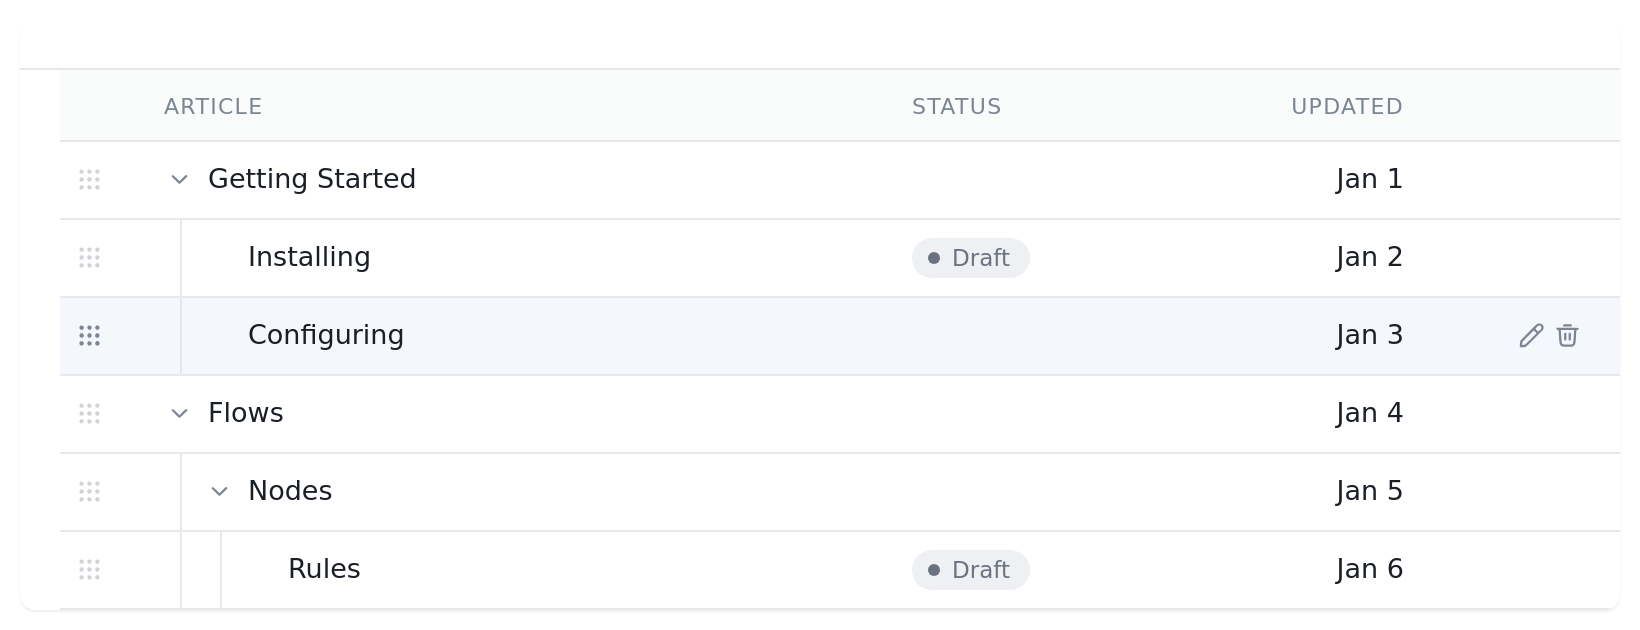
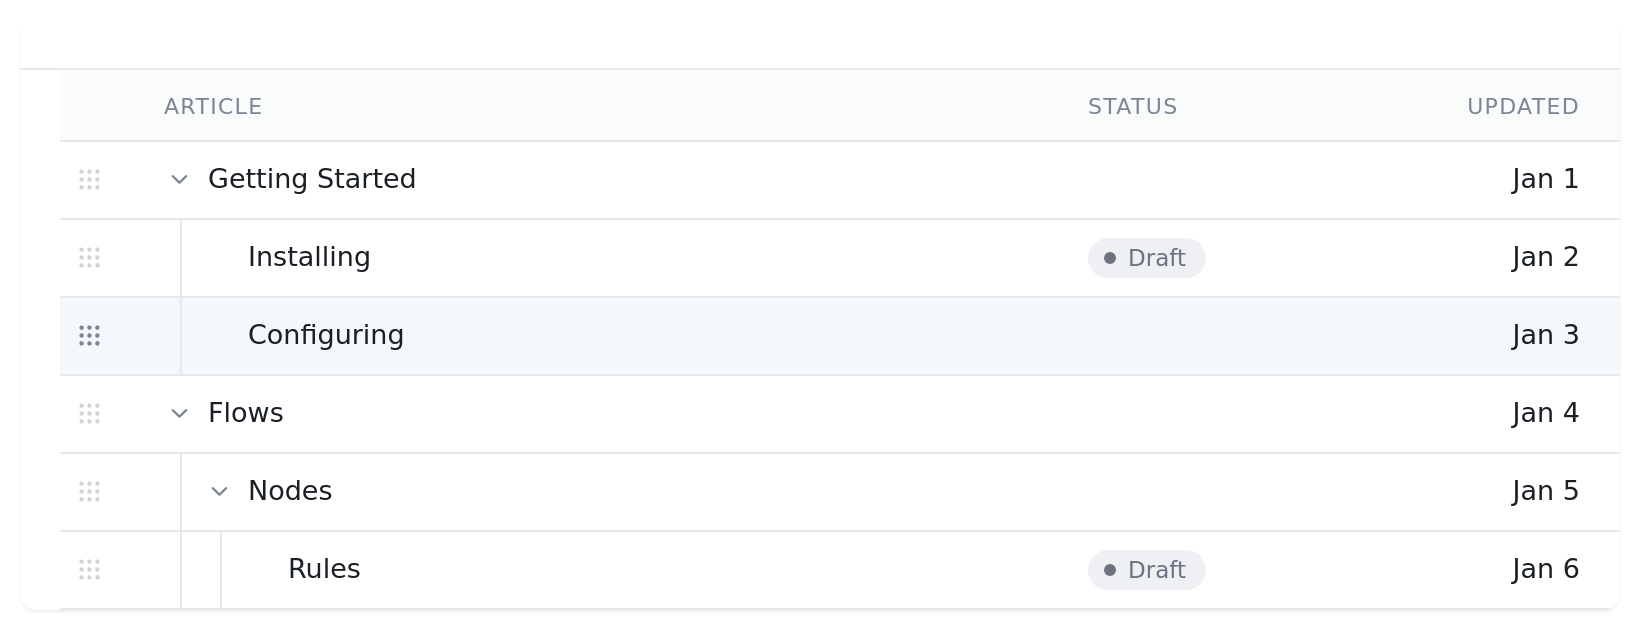
Open articles from the list without a page to link a row to
An article is read and written in a dialog over the list now, and the
read page it used to link to is gone - so getRowHref has nothing to
answer with and a ctrl-click on a row was landing on a 404.

The rows still lead somewhere, so they keep the clickable affordance
through an isRowClickable hook rather than inferring it from an href
that no longer exists. The edit and delete hover buttons go with it:
nothing passes editable or deletable any more, since the dialog carries
both actions itself.

diff --git a/src/list/ArticleList.ts b/src/list/ArticleList.ts
@@ -1,7 +1,7 @@
 import { css, html, PropertyValues, TemplateResult } from 'lit';
 import { property, state } from 'lit/decorators.js';
 import { Icon } from '../Icons';
-import { Article, CustomEventType } from '../interfaces';
+import { Article } from '../interfaces';
 import { postJSON } from '../utils';
 import { ContentList, ContentListColumn } from './ContentList';
 
@@ -255,29 +255,6 @@ export class ArticleList extends ContentList<ArticleRow> {
         opacity: 0.4;
       }
 
-      .row-actions {
-        display: flex;
-        gap: 4px;
-        justify-content: flex-end;
-        opacity: 0;
-      }
-
-      tr.row:hover .row-actions {
-        opacity: 1;
-      }
-
-      .row-action {
-        --icon-color: var(--text-3);
-      }
-
-      .row-action:hover {
-        --icon-color: var(--text-1);
-      }
-
-      .row-action.destructive:hover {
-        --icon-color: var(--danger);
-      }
-
       /* where the dragged row would land, indented to the level it
          would land at */
       .drop-marker {
@@ -301,12 +278,6 @@ export class ArticleList extends ContentList<ArticleRow> {
    * reject. */
   @property({ type: Number, attribute: 'max-depth' })
   maxDepth = 3;
-
-  @property({ type: Boolean })
-  editable = false;
-
-  @property({ type: Boolean })
-  deletable = false;
 
   /** The whole tree, including the rows a collapsed branch hides. */
   @state()
@@ -340,12 +311,13 @@ export class ArticleList extends ContentList<ArticleRow> {
     // the tree is the order, so there's nothing to sort or search by
     this.searchable = false;
     this.selectable = false;
+    this.columns = this.buildColumns();
   }
 
   private buildColumns(): ContentListColumn[] {
     const columns: ContentListColumn[] = [];
 
-    // the drag and action columns are affordances rather than data, so they head up blank
+    // the drag column is an affordance rather than data, so it heads up blank
     if (this.sortEndpoint) {
       columns.push({ key: 'drag', label: '', width: '28px' });
     }
@@ -356,25 +328,12 @@ export class ArticleList extends ContentList<ArticleRow> {
       { key: 'modified_on', label: 'Updated', width: '130px', align: 'right' }
     );
 
-    if (this.editable || this.deletable) {
-      columns.push({
-        key: 'actions',
-        label: '',
-        width: '72px',
-        align: 'right'
-      });
-    }
-
     return columns;
   }
 
   protected willUpdate(changes: PropertyValues): void {
     // rebuilt before the base class runs so its width bookkeeping sees the columns this render will use
-    if (
-      changes.has('sortEndpoint') ||
-      changes.has('editable') ||
-      changes.has('deletable')
-    ) {
+    if (changes.has('sortEndpoint')) {
       this.columns = this.buildColumns();
     }
     super.willUpdate(changes);
@@ -397,8 +356,14 @@ export class ArticleList extends ContentList<ArticleRow> {
     return visibleRows(this.tree, this.collapsed);
   }
 
-  protected getRowHref(item: ArticleRow): string | null {
-    return item?.uuid ? `/article/read/${item.uuid}/` : null;
+  /** An article has no page of its own to link to - it's opened by the
+   * host from the row-click event, in a dialog over the list. */
+  protected getRowHref(): string | null {
+    return null;
+  }
+
+  protected isRowClickable(): boolean {
+    return true;
   }
 
   private toggleCollapsed(row: ArticleRow, event: Event): void {
@@ -414,20 +379,6 @@ export class ArticleList extends ContentList<ArticleRow> {
 
     this.collapsed = collapsed;
     this.items = visibleRows(this.tree, collapsed);
-  }
-
-  private handleEditClicked(row: ArticleRow, event: MouseEvent): void {
-    event.stopPropagation();
-    const href = `/article/update/${row.uuid}/`;
-    if (!this.isSafeHref(href)) {
-      return;
-    }
-    this.fireCustomEvent(CustomEventType.Redirected, { url: href });
-  }
-
-  private handleDeleteClicked(row: ArticleRow, event: MouseEvent): void {
-    event.stopPropagation();
-    this.fireCustomEvent(CustomEventType.ArticleDelete, { item: row });
   }
 
   // ==========================================================
@@ -642,31 +593,6 @@ export class ArticleList extends ContentList<ArticleRow> {
               display="timedate"
             ></temba-date>`
           : '';
-      case 'actions':
-        return html`<div class="row-actions">
-          ${this.editable
-            ? html`<temba-icon
-                class="row-action"
-                name=${Icon.edit}
-                size="1"
-                clickable
-                title="Edit"
-                @click=${(event: MouseEvent) =>
-                  this.handleEditClicked(item, event)}
-              ></temba-icon>`
-            : null}
-          ${this.deletable
-            ? html`<temba-icon
-                class="row-action destructive"
-                name=${Icon.delete}
-                size="1"
-                clickable
-                title="Delete"
-                @click=${(event: MouseEvent) =>
-                  this.handleDeleteClicked(item, event)}
-              ></temba-icon>`
-            : null}
-        </div>`;
       default:
         return super.renderCell(item, column);
     }

diff --git a/test/temba-article-list.test.ts b/test/temba-article-list.test.ts
@@ -172,8 +172,7 @@ describe(TAG, () => {
 
     assert.instanceOf(list, ArticleList);
 
-    // the drag column is only offered when there's somewhere to post to,
-    // and the actions column only when there's an action to take
+    // the drag column is only offered when there's somewhere to post to
     expect(list.columns.map((column) => column.key)).to.deep.equal([
       'drag',
       'title',
@@ -186,14 +185,13 @@ describe(TAG, () => {
     expect(list.columns.some((column) => column.sortable)).to.be.false;
   });
 
-  it('drops the drag and action columns without permissions', async () => {
-    const list = await getList({ 'sort-endpoint': '', editable: true });
+  it('drops the drag column without permission to reorder', async () => {
+    const list = await getList({ 'sort-endpoint': '' });
 
     expect(list.columns.map((column) => column.key)).to.deep.equal([
       'title',
       'status',
-      'modified_on',
-      'actions'
+      'modified_on'
     ]);
     expect(list.shadowRoot.querySelector('.drag-handle')).to.not.exist;
   });
@@ -278,10 +276,14 @@ describe(TAG, () => {
     expect(getTitles(list)).to.have.length(6);
   });
 
-  it('navigates to an article when its row is clicked', async () => {
+  it('asks the host to open an article rather than navigating to one', async () => {
     const list = await getList();
 
+    const clicked: string[] = [];
     const redirects: string[] = [];
+    list.addEventListener(CustomEventType.RowClick, (event: any) =>
+      clicked.push(event.detail.item.uuid)
+    );
     list.addEventListener(CustomEventType.Redirected, (event: any) =>
       redirects.push(event.detail.url)
     );
@@ -289,31 +291,15 @@ describe(TAG, () => {
     getRows(list)[3].dispatchEvent(new MouseEvent('click', { bubbles: true }));
     await list.updateComplete;
 
-    expect(redirects).to.deep.equal(['/article/read/flows/']);
-  });
+    // an article is read and written in a dialog over the list, so there's no page to link a row to - not even one
+    // a ctrl-click could open in a tab
+    expect(clicked).to.deep.equal(['flows']);
+    expect(redirects).to.be.empty;
+    expect((list as any).getRowHref()).to.be.null;
 
-  it('offers edit and delete when permitted', async () => {
-    const list = await getList({ editable: true, deletable: true });
-
-    const redirects: string[] = [];
-    const deletes: any[] = [];
-    list.addEventListener(CustomEventType.Redirected, (event: any) =>
-      redirects.push(event.detail.url)
-    );
-    list.addEventListener(CustomEventType.ArticleDelete, (event: any) =>
-      deletes.push(event.detail.item)
-    );
-
-    const actions = getRows(list)[0].querySelectorAll('.row-action');
-    expect(actions).to.have.length(2);
-
-    actions[0].dispatchEvent(new MouseEvent('click', { bubbles: true }));
-    actions[1].dispatchEvent(new MouseEvent('click', { bubbles: true }));
-    await list.updateComplete;
-
-    // neither falls through to the row's own navigation
-    expect(redirects).to.deep.equal(['/article/update/getting-started/']);
-    expect(deletes.map((item) => item.uuid)).to.deep.equal(['getting-started']);
+    // and the rows still read as clickable, since clicking one does lead somewhere
+    expect(getRows(list).every((row) => row.classList.contains('clickable'))).to
+      .be.true;
   });
 
   it('reorders siblings by dragging', async () => {
@@ -365,7 +351,7 @@ describe(TAG, () => {
   it('renders the article tree (screenshot)', async () => {
     // the modified dates need a store to know the workspace's locale
     await loadStore();
-    const list = await getList({ editable: true, deletable: true });
+    const list = await getList();
     await assertScreenshot('article-list/list', getClip(list));
   });
 });

diff --git a/src/list/ContentList.ts b/src/list/ContentList.ts
@@ -2153,6 +2153,15 @@ export class ContentList<T = any> extends RapidElement {
     return null;
   }
 
+  /** Whether a row reads as clickable — the pointer cursor that says
+   * the click leads somewhere. A row with an href always does;
+   * override for a list whose rows are opened by the host off
+   * `temba-row-click` rather than by navigating, so it keeps the
+   * affordance without a URL to link to. */
+  protected isRowClickable(item: T): boolean {
+    return !!this.getRowHref(item);
+  }
+
   /** Update the uncommitted input value as the user types. The
    * fetch is deferred until the user submits (Enter / search-icon
    * click) so we don't pound the server on every keystroke. */
@@ -3757,10 +3766,11 @@ export class ContentList<T = any> extends RapidElement {
   private renderRow(item: T): TemplateResult {
     const id = this.rowId(item);
     const selected = this.selectedIds.has(id);
-    const href = this.getRowHref(item);
     return html`
       <tr
-        class="row ${selected ? 'selected' : ''} ${href ? 'clickable' : ''}"
+        class="row ${selected ? 'selected' : ''} ${this.isRowClickable(item)
+          ? 'clickable'
+          : ''}"
         @click=${(e: MouseEvent) => this.handleRowClick(item, e)}
       >
         ${this.hasCheckboxes

diff --git a/src/interfaces.ts b/src/interfaces.ts
@@ -540,7 +540,6 @@ export enum CustomEventType {
   RowClick = 'temba-row-click',
   ShortcutEdit = 'temba-shortcut-edit',
   ShortcutDelete = 'temba-shortcut-delete',
-  ArticleDelete = 'temba-article-delete',
   SelectionChange = 'temba-selection-change',
   BulkAction = 'temba-bulk-action',
   /** The label dropdown's "New Label…" row was clicked — detail
